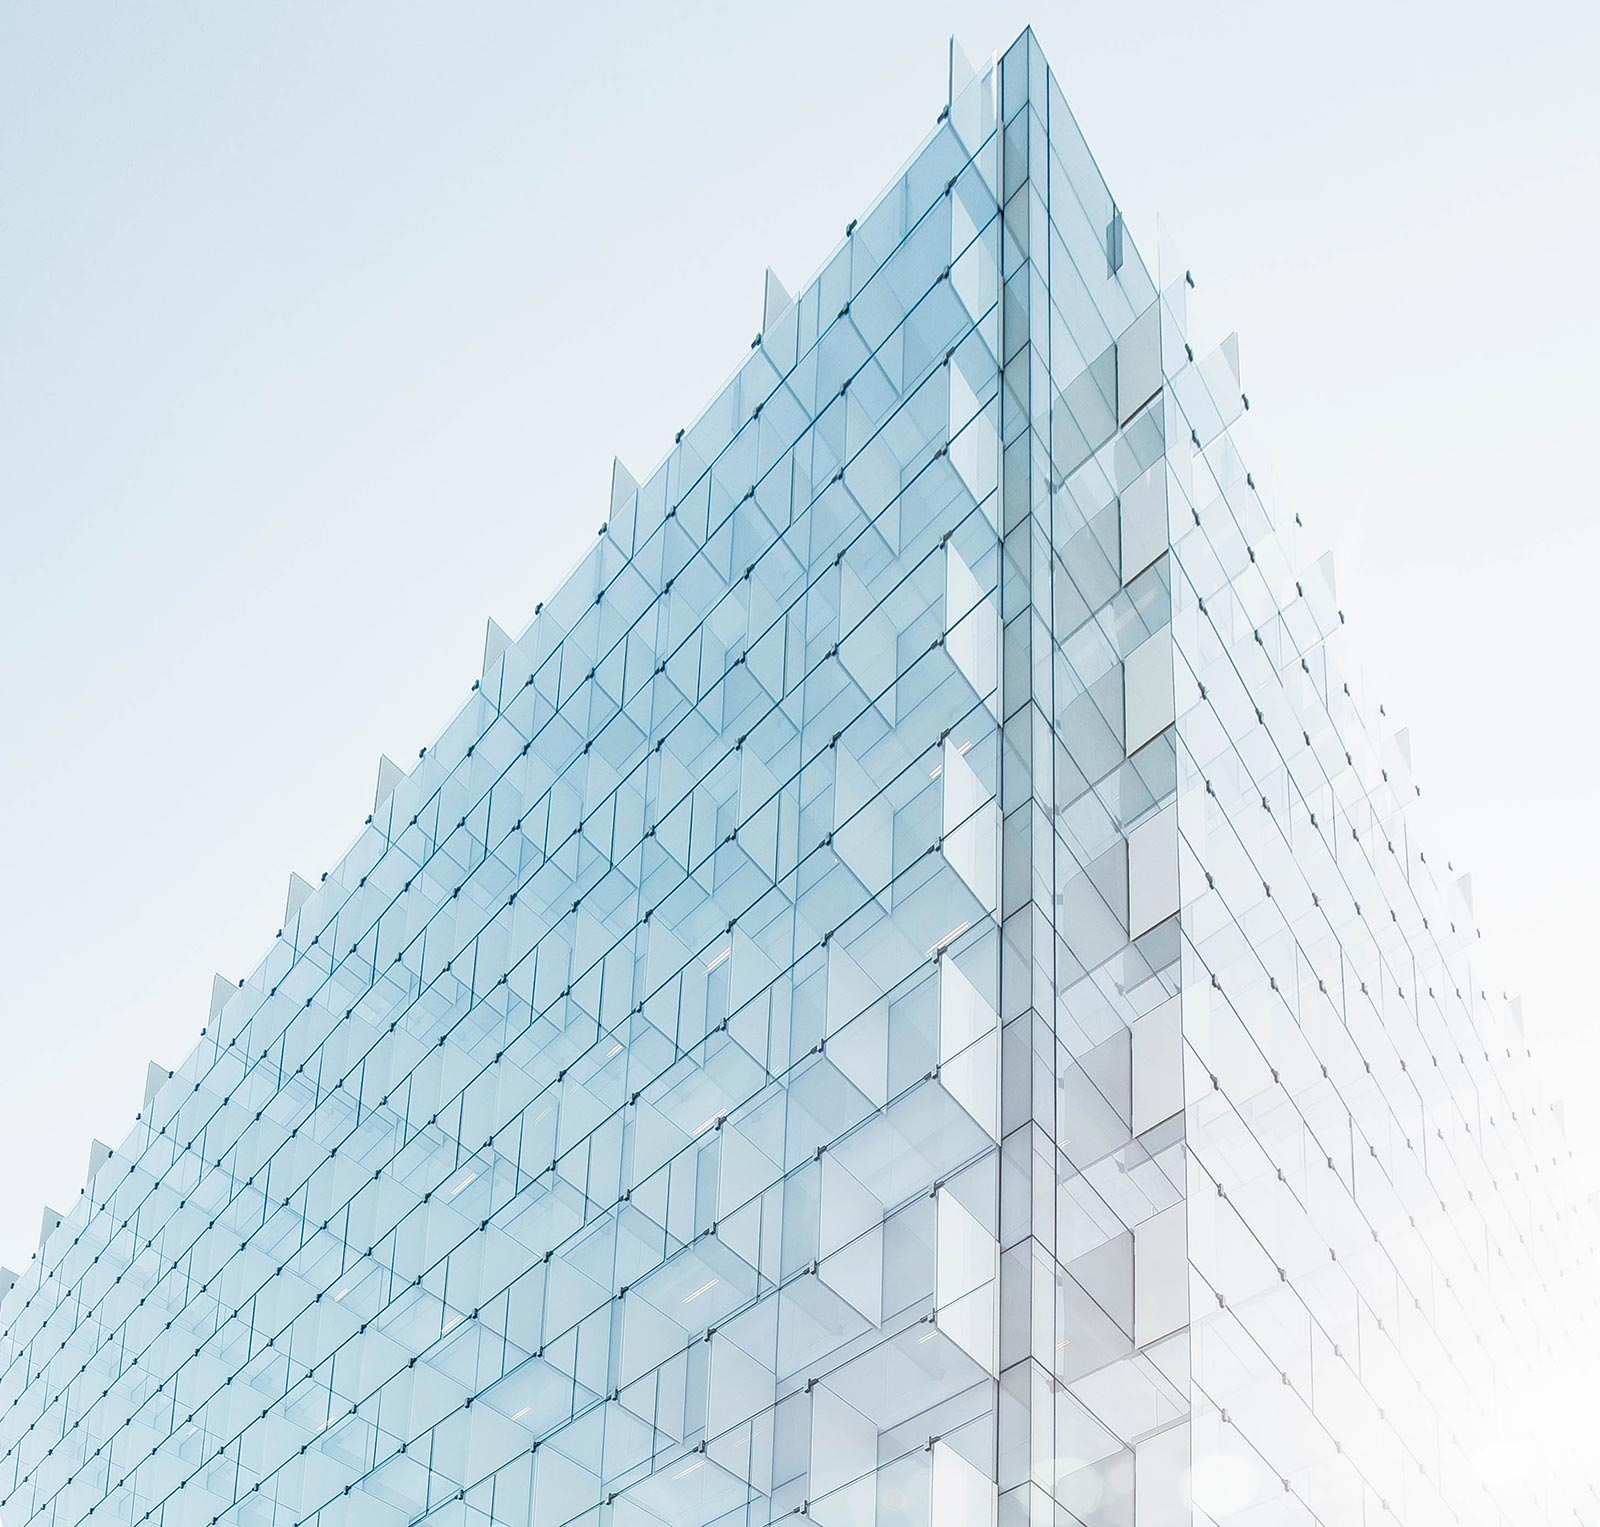
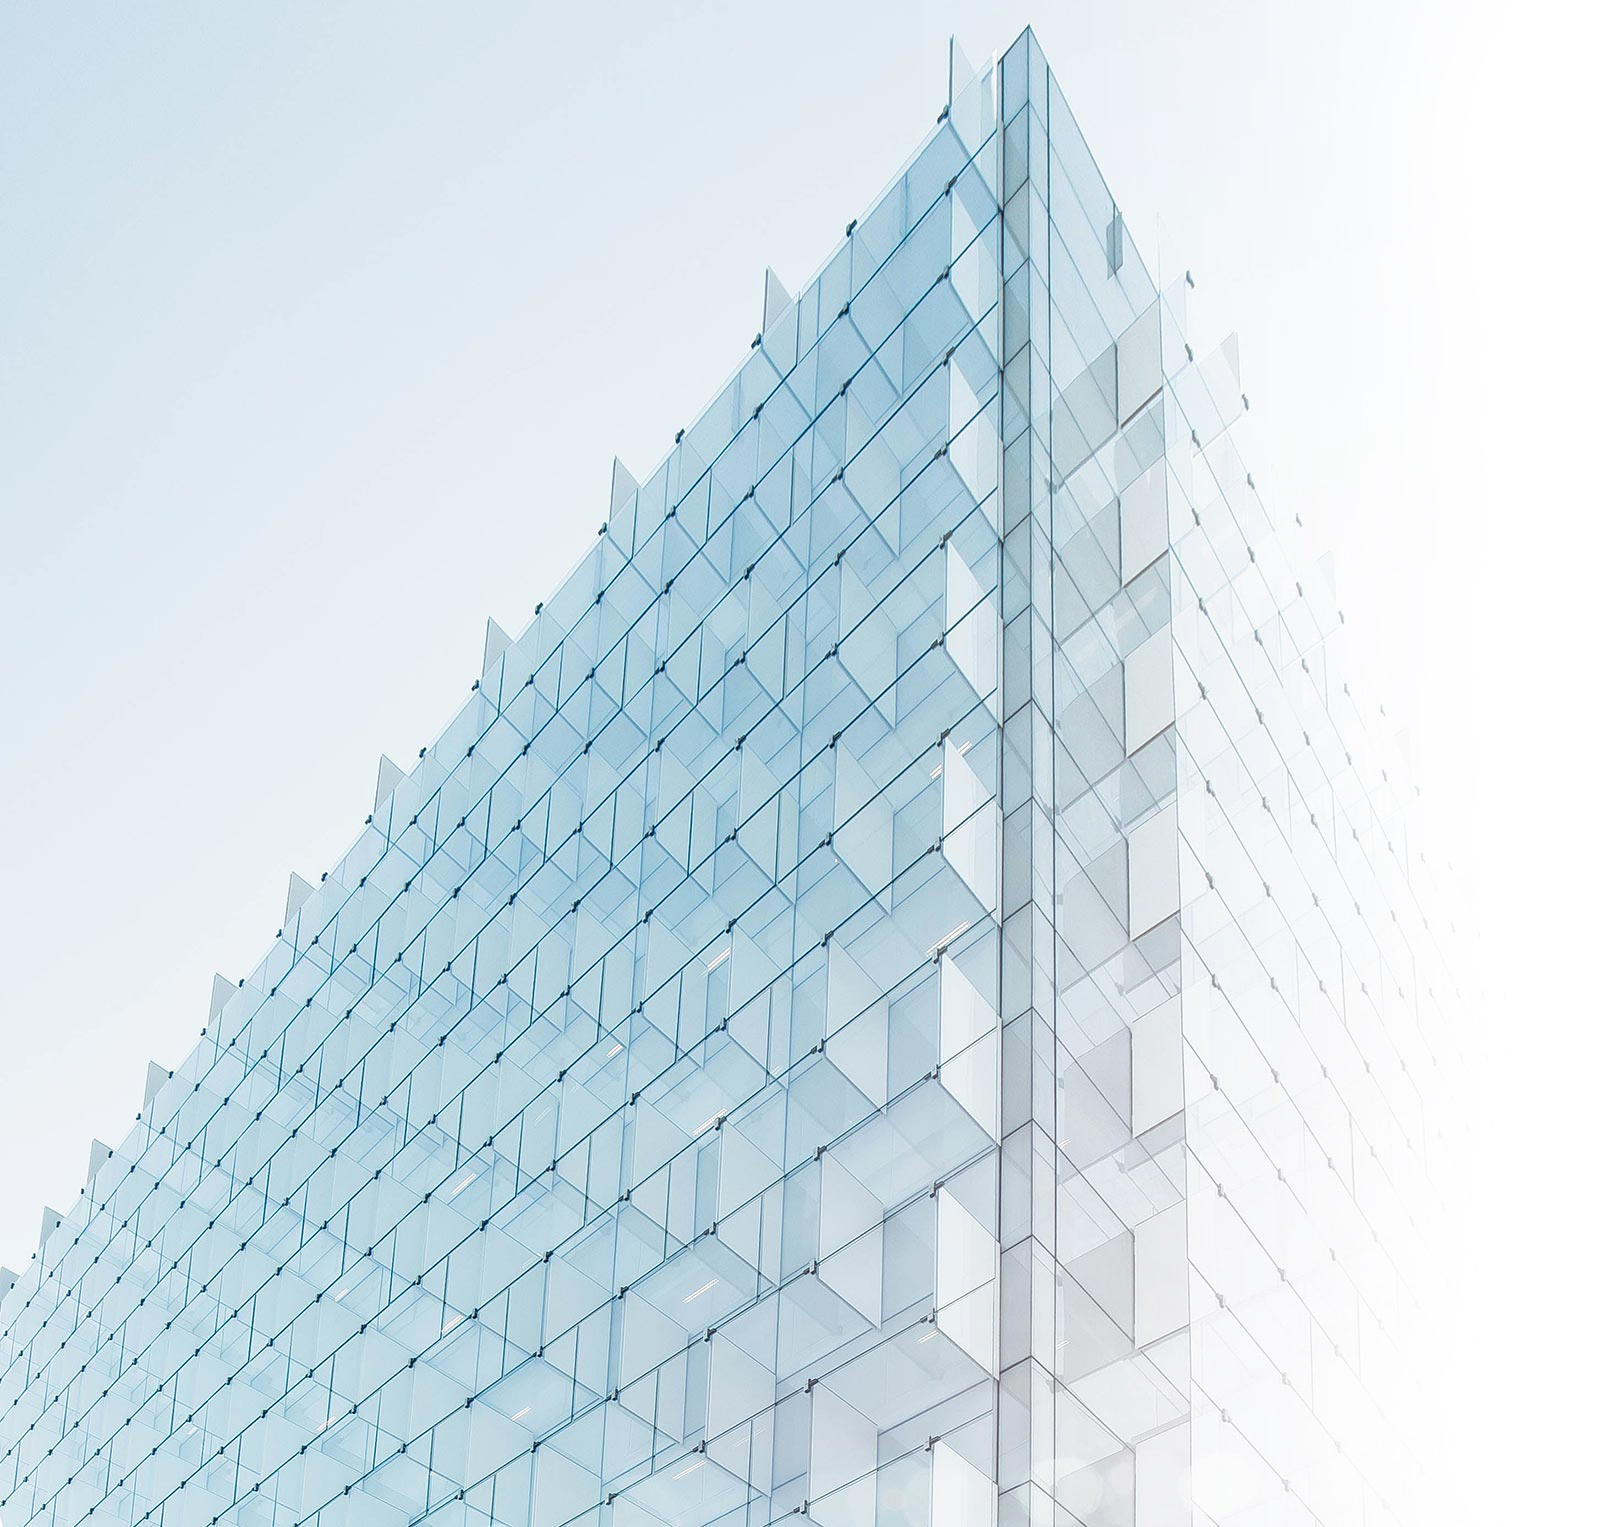
site updates

diff --git a/src/App.vue b/src/App.vue
@@ -3,13 +3,8 @@
   <header>
     <div class="wrapper">
       <nav>
-        <a href="#" v-scroll-to="'#home'">
-          <svg id="logo" xmlns="http://www.w3.org/2000/svg" viewBox="0 0 146.42 146.46">
-<path d="M135.52,109.91,72.48,1l1.75,0a72.2,72.2,0,0,1,35.08,9.61h0a72.55,72.55,0,0,1,27.07,97.76ZM76,3l59.49,102.79a70.55,70.55,0,0,0-27.16-93.49h0A70.27,70.27,0,0,0,76,3Z" transform="translate(-0.04 0)"/><path d="M10.52,109.83,73.42.61l63.13,109.08ZM73.42,4.61,14,107.83l119.11-.13Z" transform="translate(-0.04 0)"/><path d="M73,145.42a71.86,71.86,0,0,1-61.72-35.08l-.9-1.51,125.86-.14-.9,1.52A72.54,72.54,0,0,1,73,145.42ZM13.91,110.83a70.31,70.31,0,0,0,24.27,23.3h0a70.56,70.56,0,0,0,94.49-23.43Z" transform="translate(-0.04 0)"/><path d="M11.31,110.46l-.86-1.53a72.64,72.64,0,0,1,.17-71.76h0A72.66,72.66,0,0,1,72.61,1l1.75,0Zm1-72.3a70.65,70.65,0,0,0-1,68.24L70.86,3A70.64,70.64,0,0,0,12.35,38.16Z" transform="translate(-0.04 0)"/>
-<path d="M73.19,1A72.2,72.2,0,0,0,10.74,109.44l.11.2.12.19a72.2,72.2,0,0,0,124.66-.13l.24-.4.22-.41A72.21,72.21,0,0,0,73.64,1m35.17,10.47a71.34,71.34,0,0,1,26.69,96.41L74.22,2A70.82,70.82,0,0,1,108.81,11.47ZM73.42,2.61l61.4,106.09-122.57.13ZM11.49,37.67A71.28,71.28,0,0,1,72.62,2L11.32,108.44A71.29,71.29,0,0,1,11.49,37.67ZM37.68,135a70.82,70.82,0,0,1-25.56-25.16l122.34-.13A71.34,71.34,0,0,1,37.68,135Z" transform="translate(-0.04 0)"/><path d="M73.06,146.46a73,73,0,0,1-63-36.13l-.23-.41A73.19,73.19,0,0,1,73.19,0V1l.22-.38.22.38V0A73.21,73.21,0,0,1,137,109.39l-.47.81A73.4,73.4,0,0,1,73.06,146.46ZM13.91,110.83a70.21,70.21,0,0,0,118.76-.13ZM73.42,4.61,14,107.83l119.11-.13ZM12.35,38.16a70.65,70.65,0,0,0-1,68.24L70.86,3A70.64,70.64,0,0,0,12.35,38.16ZM76,3l59.49,102.79A70.21,70.21,0,0,0,76,3Z" transform="translate(-0.04 0)"/>
-<path d="M73.53,130.54a21.28,21.28,0,1,1,21.28-21.28A21.3,21.3,0,0,1,73.53,130.54Zm0-41.55a20.28,20.28,0,1,0,20.28,20.27A20.29,20.29,0,0,0,73.53,89Z" transform="translate(-0.04 0)"/>
-<path d="M73.53,131.54a22.28,22.28,0,1,1,22.28-22.28A22.3,22.3,0,0,1,73.53,131.54Zm0-41.55a19.28,19.28,0,1,0,19.28,19.27A19.3,19.3,0,0,0,73.53,90Z" transform="translate(-0.04 0)"/>
-</svg>
+        <a id="logo" href="#" v-scroll-to="'#home'">
+          <svg xmlns="http://www.w3.org/2000/svg" viewBox="0 0 84.78 112.82"><path d="M72,61c6,0,10.22,4.18,10.22,10.23v13.1c0,6-4.17,10.23-10.22,10.23H55.87V112.8H45.5V61ZM69.4,84.72a2.21,2.21,0,0,0,2.45-2.45V73.2a2.2,2.2,0,0,0-2.45-2.45H55.87v14Z"/><path d="M10.33,52.42H26.74C32.79,52.42,37,48.24,37,42.2V33.84H26.6v6.34a2.21,2.21,0,0,1-2.45,2.45H12.92a2.21,2.21,0,0,1-2.45-2.45V12.24a2.21,2.21,0,0,1,2.45-2.45H24.15a2.21,2.21,0,0,1,2.45,2.45v6.34H37V10.22C37,4.18,32.79,0,26.74,0H10.33C4.28,0,.1,4.18.1,10.22v32C.1,48.24,4.28,52.42,10.33,52.42Z"/><polygon points="56.55 30.53 74.41 30.53 74.41 52.13 84.78 52.13 84.78 0.29 74.41 0.29 73.41 20.74 56.55 20.74 56.55 0.29 46.18 0.29 46.18 52.13 56.55 52.13 56.55 30.53"/><path d="M27.29,60.4H10.23C4.18,60.4,0,64.58,0,70.62v32c0,6,4.18,10.22,10.23,10.22H27.29c6.05,0,10.23-4.18,10.23-10.22V83.51H17.64v9.36h9.51v7.71A2.21,2.21,0,0,1,24.7,103H12.82a2.21,2.21,0,0,1-2.45-2.45V72.64a2.21,2.21,0,0,1,2.45-2.45H24.7a2.21,2.21,0,0,1,2.45,2.45v4.75H37.52V70.62C37.52,64.58,33.34,60.4,27.29,60.4Z"/><polygon points="73.92 99.8 62.48 99.8 72.75 112.8 84.19 112.8 73.92 99.8"/></svg>
 </a>
         <ul class="navigation">
           <li><a href="#" v-scroll-to="'#about'">About</a></li>
@@ -23,7 +18,7 @@
   </header>
   <section class="section" id="home">
     <div class="img-container">
-      <img src="./assets/building_dark.jpg" alt="">
+      <img src="./assets/building.jpg" alt="">
     </div>
     <div class="content">
       <div class="welcome">
@@ -250,6 +245,18 @@ iframe {
     }
 }
 
+#logo {
+    background: rgba(#fff,0.6);
+    padding: 10px;
+    @include breakpoint(mobile) {
+        background: transparent;
+        padding: 0;
+    }
+    svg {
+        display: block;
+    }
+}
+
 header {
     position: fixed;
     top: 0;
@@ -260,24 +267,27 @@ header {
     @include breakpoint(mobile) {
         padding: 15px 0;
         background: #222;
+        border-bottom: 1px solid rgba(#fff,0.1);
     }
 
     svg {
-        fill: #777;
-        width: 50px;
+        fill: #222;
+        width: 70px;
 
         @include breakpoint(mobile) {
             width: 20px;
+            fill: #fff;
         }
     }
 
     nav {
         display: flex;
-        align-items: center;
+        align-items: flex-start;
         justify-content: space-between;
 
         @include breakpoint(mobile) {
             flex-direction: column;
+            align-items: center;
         }
     }
 }
@@ -390,18 +400,27 @@ header {
         cursor: pointer;
         color: #777;
         &:last-of-type {
-            margin: 10px 0 0;
+            margin: 0;
         }
 
         @include breakpoint(mobile) {
             margin: 10px 10px 0 0;
             font-size: 12px;
 
+            &:last-of-type {
+                margin: 10px 0 0;
+            }
+
         }
 
         a {
             text-decoration: none;
             color: #777;
+
+            transition: all 0.4s;
+            &:hover {
+                color: #999;
+            }
         }
     }
 }
@@ -419,6 +438,7 @@ header {
         font-size: 50px;
         text-transform: uppercase;
         margin: 0;
+        color: #222;
     }
 
     h2 {
@@ -426,6 +446,7 @@ header {
         text-transform: uppercase;
         letter-spacing: 5px;
         font-weight: 500;
+        color: #222;
         //margin: 0 0 10px 16px;
         @include breakpoint(mobile) {
             font-size: 12px;
@@ -440,22 +461,42 @@ header {
     @include breakpoint(mobile) {
         flex-direction: column;
     }
+
+    &#about {
+        .img-container {
+            background: #fff;
+            height: 100vh;
+
+            @include breakpoint(mobile) {
+                width: 100vh;
+                height: auto;
+            }
+
+            img {
+                object-fit: fill;
+                transform: translateX(-50%);
+            }
+        }
+    }
     &#home {
         display: flex;
         align-items: flex-end;
         position: relative;
+        background: #fff;
         @include breakpoint(mobile) {
             flex-direction: column;
         }
 
         .img-container {
             width: 50vw;
-            opacity: 0.4;
+            opacity: 1;
             display: flex;
             align-items: flex-end;
+            height: 100vh;
 
             @include breakpoint(mobile) {
                 width: 100vh;
+                height: auto;
             }
         }
 
